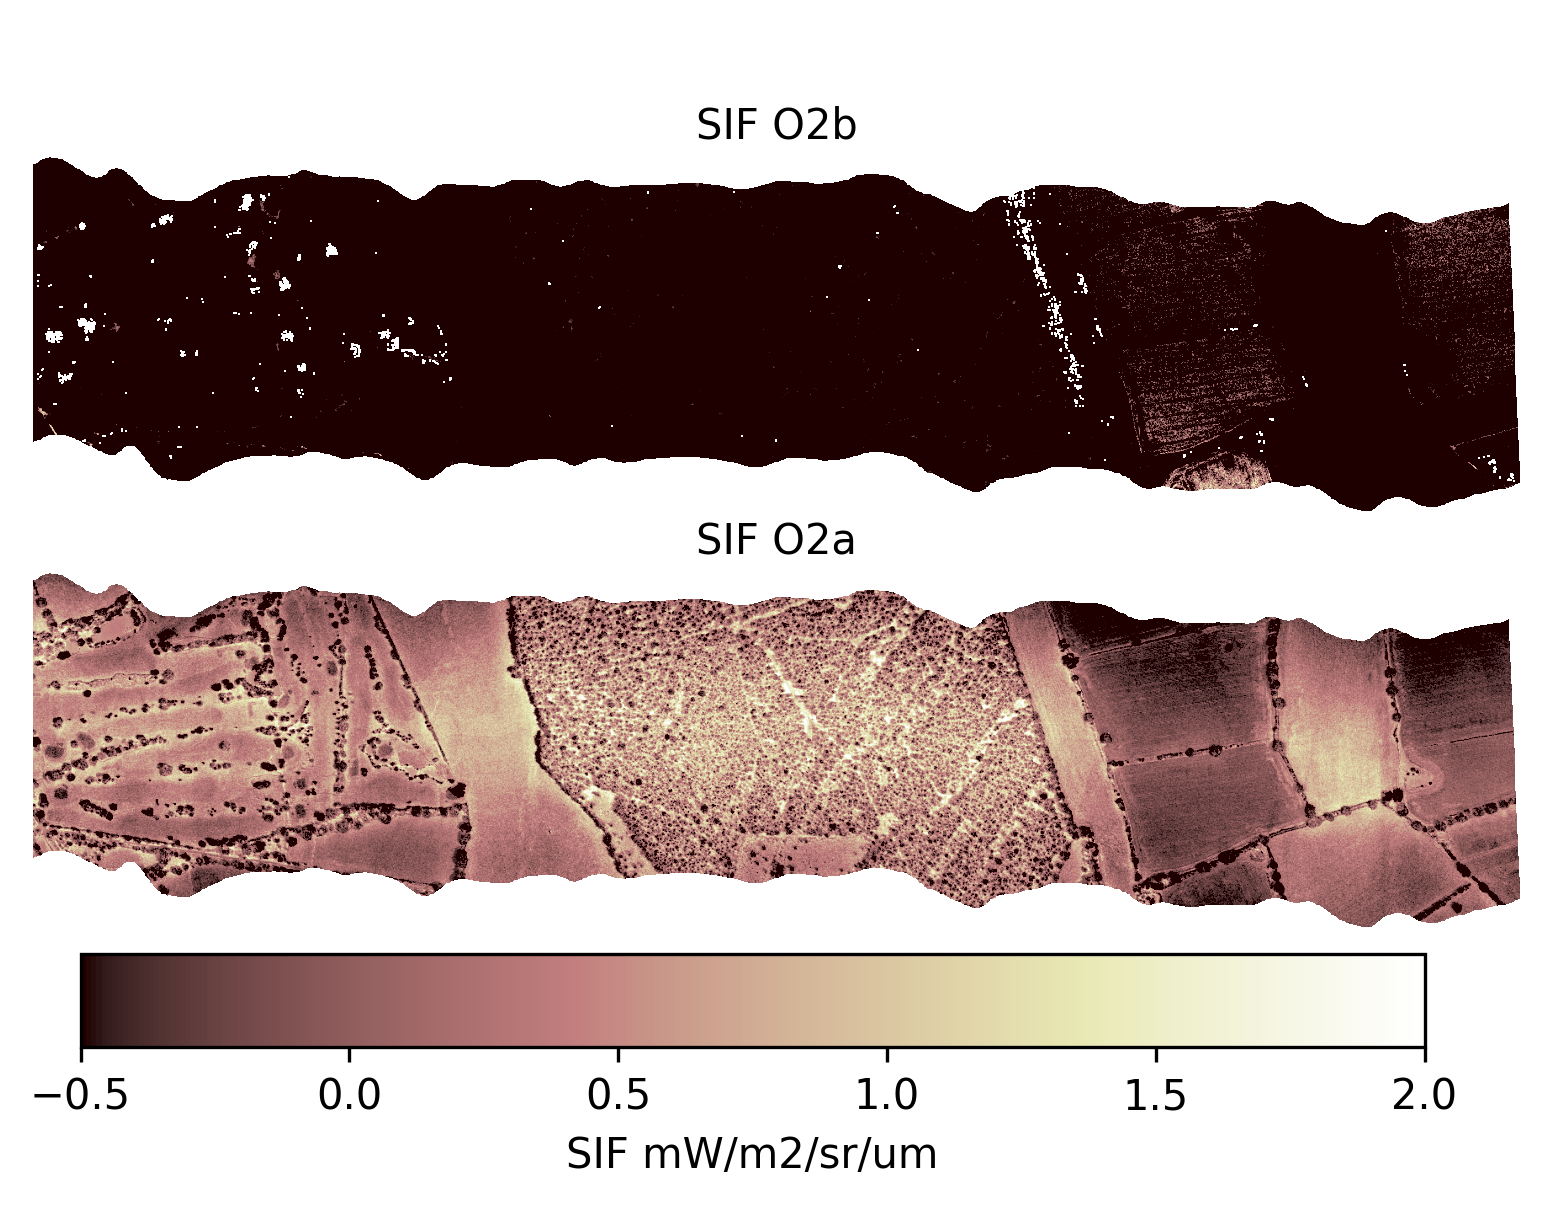
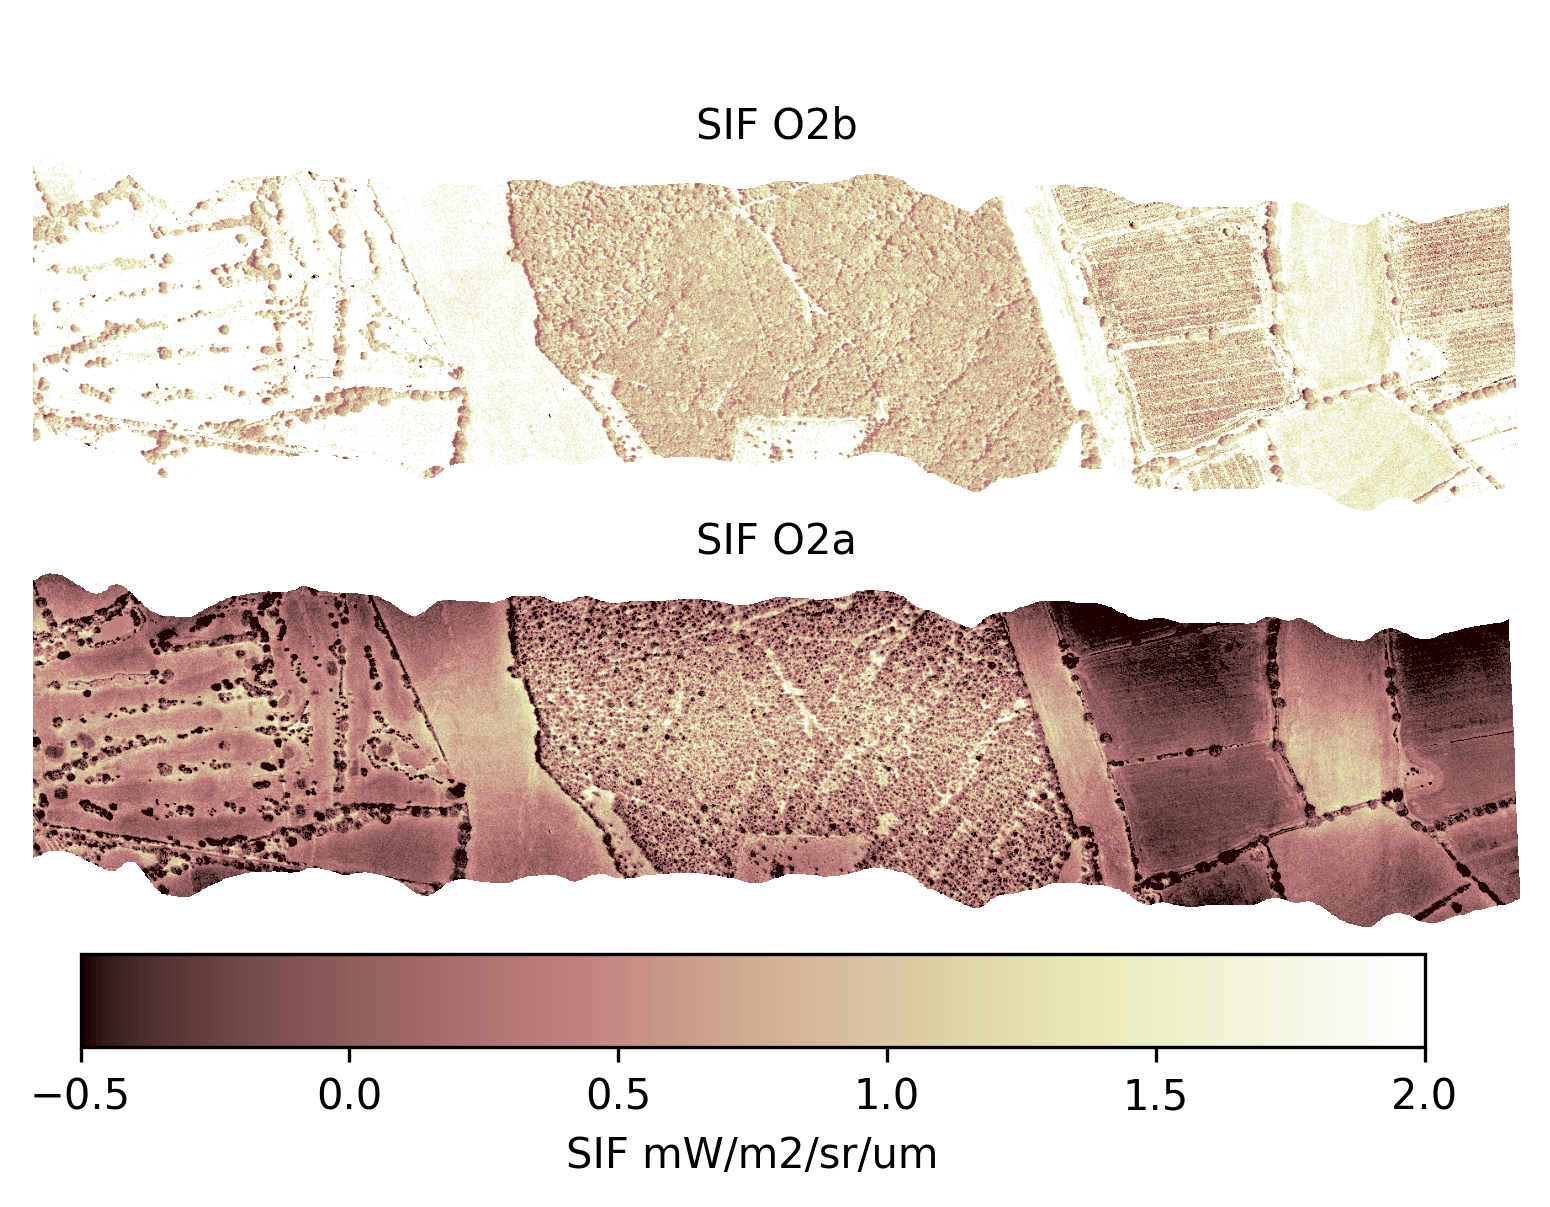
preliminary ridge regression algorithm implimented

Changed region(s): [[0.0, 0.1226, 0.991, 0.4292]]

diff --git a/sif_retrieval.py b/sif_retrieval.py
@@ -1,4 +1,5 @@
 import numpy as np
+import scipy.linalg as linalg
 from copy import copy
 from spectra_tools.spectra import Spectra
 
@@ -16,6 +17,71 @@ sif_opts_FLD_Cendrero19_O2b.outL_wband=(680, 686)
 sif_opts_FLD_Cendrero19_O2b.outR_wband=(697, 698) 
 
 
+def diff_matrix(size,order=1):
+    """returns a difference operator of the type 
+    described by Twomey in "introduction to the 
+    mathematics..." (see pages 124-127)
+    
+    size: (int) size of matrix to be returned
+    order: (int) the order of the difference matrix 
+    """
+    D=np.eye(size+order)
+    D=np.diff(D,n=order)
+    D[0:order,:]=0
+    D=D[0:size,:]
+    return D
+
+
+def sif_ridgeReg_compute_pseudo_inverse(wref_spect, order=1, gamma=1., sif_opts=sif_opts_FLD_Cendrero19_O2a):
+    """
+    
+    (KTK+gBTB)KT
+    """
+    
+    wl_min=sif_opts.in_wband[0]
+    wl_max=sif_opts.in_wband[1]
+
+    wref=copy(wref_spect)    
+    wref.trim(wl_min,wl_max)
+    
+    size=len(wref.data)
+    
+    #make the design matrix 
+    K=np.zeros((size,size*2))
+    for i in range(size):
+        K[i,i]=wref.data[i]
+        K[i,i+size]=1.0
+    KTK=np.matmul(K.T,K)
+    
+    #make the block matrix for the
+    #ridge regression constraints
+    D=diff_matrix(size,order=order)
+    B=linalg.block_diag(gamma*D,gamma*D)
+    BTB=np.matmul(B.T,B)
+    
+    return(np.matmul(np.linalg.inv(KTK+BTB),K.T))
+
+
+def sif_ridgeReg_use_precomp_inverse( target_spect, pseudo_inv,sif_opts=sif_opts_FLD_Cendrero19_O2a, out_wvl=None ):
+
+    wl_min=sif_opts.in_wband[0]
+    wl_max=sif_opts.in_wband[1]
+
+    targ=copy(target_spect)
+    targ.trim(wl_min,wl_max)
+    size=len(targ.data)
+
+    if out_wvl is None:
+        out_wvl=targ.wavl[int(size/2.)]
+
+    out=np.matmul(pseudo_inv,targ.data)
+    #copy SIF into targ
+    targ.data=out[size:]
+    
+    return(targ.closest_to_wavl(out_wvl)[1])
+
+    
+    
 def sif_linReg_compute_pseudo_inverse( wref_spect, sif_opts=sif_opts_FLD_Cendrero19_O2a ):
 
     wl_min=sif_opts.in_wband[0]
@@ -26,7 +92,7 @@ def sif_linReg_compute_pseudo_inverse( wref_spect, sif_opts=sif_opts_FLD_Cendrer
 
     X=np.ones((len(wref.data),2))
     X[:,0]=np.array(wref.data)
-
+    
     return(np.linalg.pinv(X))
 
 def sif_linReg_use_precomp_inverse( target_spect, pseudo_inv, sif_opts=sif_opts_FLD_Cendrero19_O2a ):
@@ -171,13 +237,16 @@ if __name__=="__main__":
 
     sif_opts=sif_opts_FLD_Cendrero19_O2a
    
-   
-    print(sif_sFLD(test,wref,sif_opts=sif_opts)*0.01)
-    print(sif_3FLD(test,wref,sif_opts=sif_opts)*0.01)
-    print(sif_linReg(test,wref,sif_opts=sif_opts)*0.01)
+    if True:  
+        print(sif_sFLD(test,wref,sif_opts=sif_opts)*0.01)
+        print(sif_3FLD(test,wref,sif_opts=sif_opts)*0.01)
+        print(sif_linReg(test,wref,sif_opts=sif_opts)*0.01)
 
-    pseudo=sif_linReg_compute_pseudo_inverse(wref, sif_opts)
-    print(sif_linReg_use_precomp_inverse(test, pseudo, sif_opts)*0.01)
+        pseudo=sif_linReg_compute_pseudo_inverse(wref, sif_opts)
+        print(sif_linReg_use_precomp_inverse(test, pseudo,sif_opts)*0.01)
+
+    pseudo=sif_ridgeReg_compute_pseudo_inverse(wref, sif_opts=sif_opts, order=3, gamma=10000000.)
+    print(sif_ridgeReg_use_precomp_inverse(test, pseudo,sif_opts=sif_opts,out_wvl=761.)*0.01)
 
     #plt.plot(wref.wavl,wref.data)
     #plt.plot(test.wavl,test.data)

diff --git a/proc_ibis.py b/proc_ibis.py
@@ -54,10 +54,16 @@ if __name__=="__main__":
     output_sif_o2b=np.ones([ibis_data.lines,ibis_data.samples])*-9999
     #output_ndvi=np.ones([ibis_data.lines,ibis_data.samples])*-9999
 
-    #precompute pseudo inverse for regression
-    pseudo_o2a=sif_linReg_compute_pseudo_inverse(wref, sif_opts_FLD_Cendrero19_O2a)
-    pseudo_o2b=sif_linReg_compute_pseudo_inverse(wref, sif_opts_FLD_Cendrero19_O2b)
+    #restrict the O2b waveband - the longer
+    #wavelengths change too much (this may
+    #also be overcome with the ridge regression)
+    sif_opts_FLD_Cendrero19_O2b.in_wband=(682, 690) 
 
+    #precompute pseudo inverse for regression
+    #pseudo_o2a=sif_linReg_compute_pseudo_inverse(wref, sif_opts_FLD_Cendrero19_O2a)
+    #pseudo_o2b=sif_linReg_compute_pseudo_inverse(wref, sif_opts_FLD_Cendrero19_O2b)
+    #pseudo_o2a=sif_ridgeReg_compute_pseudo_inverse(wref, order=2, gamma=10000000., sif_opts=sif_opts_FLD_Cendrero19_O2a)
+    pseudo_o2b=sif_ridgeReg_compute_pseudo_inverse(wref, order=2, gamma=10000000., sif_opts=sif_opts_FLD_Cendrero19_O2b)
 
     #loop over the IBIS data, exploiting the
     #fact that the BilReader class creates an
@@ -70,18 +76,26 @@ if __name__=="__main__":
                continue
             #output_sif_o2a[i,j]=sif_linReg(ibis_spect, wref, sif_opts_FLD_Cendrero19_O2a)
             #output_sif_o2b[i,j]=sif_linReg(ibis_spect, wref, sif_opts_FLD_Cendrero19_O2b)
-            output_sif_o2a[i,j]=sif_linReg_use_precomp_inverse(ibis_spect, pseudo_o2a, sif_opts_FLD_Cendrero19_O2a)
-            output_sif_o2b[i,j]=sif_linReg_use_precomp_inverse(ibis_spect, pseudo_o2b, sif_opts_FLD_Cendrero19_O2b)
+            #output_sif_o2a[i,j]=sif_linReg_use_precomp_inverse(ibis_spect, pseudo_o2a, sif_opts=sif_opts_FLD_Cendrero19_O2a)
+            #output_sif_o2b[i,j]=sif_linReg_use_precomp_inverse(ibis_spect, pseudo_o2b, sif_opts=sif_opts_FLD_Cendrero19_O2b)
+            #output_sif_o2a[i,j]=sif_ridgeReg_use_precomp_inverse(ibis_spect, pseudo_o2a, sif_opts=sif_opts_FLD_Cendrero19_O2a,out_wvl=761.0)
+            output_sif_o2b[i,j]=sif_ridgeReg_use_precomp_inverse(ibis_spect, pseudo_o2b, sif_opts=sif_opts_FLD_Cendrero19_O2b,out_wvl=686.7)
             #output_ndvi[i,j]=ibis_ndvi(ibis_spect, wref)
     
     #convert units
     output_sif_o2a*=ibis_data.units_to_mw_m2
     output_sif_o2b*=ibis_data.units_to_mw_m2
 
-    with open('./data_out/sif_o2a_linReg.pickle', 'wb') as f:
-        pickle.dump(output_sif_o2a, f, pickle.HIGHEST_PROTOCOL)
-    with open('./data_out/sif_o2b_linReg.pickle', 'wb') as f:
+
+    #with open('./data_out/sif_o2a_ridgeReg2.pickle', 'wb') as f:
+    #    pickle.dump(output_sif_o2a, f, pickle.HIGHEST_PROTOCOL)
+    with open('./data_out/sif_o2b_ridgeReg2.pickle', 'wb') as f:
         pickle.dump(output_sif_o2b, f, pickle.HIGHEST_PROTOCOL)
+
+    #with open('./data_out/sif_o2a_linReg.pickle', 'wb') as f:
+    #    pickle.dump(output_sif_o2a, f, pickle.HIGHEST_PROTOCOL)
+    #with open('./data_out/sif_o2b_linReg.pickle', 'wb') as f:
+    #    pickle.dump(output_sif_o2b, f, pickle.HIGHEST_PROTOCOL)
     #with open('./data_out/sif_o2a_3FLD.pickle', 'wb') as f:
     #    pickle.dump(output_sif_o2a, f, pickle.HIGHEST_PROTOCOL)
     #with open('./data_out/sif_o2b_3FLD.pickle', 'wb') as f:

diff --git a/img/mk_image.py b/img/mk_image.py
@@ -2,12 +2,12 @@ import numpy as np
 from matplotlib import pyplot as plt
 import pickle
 
-with open('../data_out/sif_o2a_linReg__foo.pickle', 'rb') as f:
+with open('../data_out/sif_o2a_ridgeReg2.pickle', 'rb') as f:
     image = pickle.load(f)
 sif_o2a_data = np.ma.masked_where(image < -10, image)
 sif_o2a_data = sif_o2a_data[2000:,:]
 
-with open('../data_out/sif_o2b_linReg__foo.pickle', 'rb') as f:
+with open('../data_out/sif_o2b_ridgeReg2.pickle', 'rb') as f:
     image = pickle.load(f)
 sif_o2b_data = np.ma.masked_where(image < -10, image)
 sif_o2b_data = sif_o2b_data[2000:,:]
@@ -30,6 +30,6 @@ cbar_ax = fig.add_axes([0.15, 0.1, 0.7, 0.065])
 fig.colorbar(im, orientation="horizontal", label="SIF mW/m2/sr/um",pad=0.01, cmap=cmap, cax=cbar_ax)
 
 #plt.show()
-plt.savefig("ibis_sif_linReg_o2a_o2b__foo.png",bbox_inches='tight', dpi=300)
+plt.savefig("ibis_sif_ridgeReg2_o2a_o2b.png",bbox_inches='tight', dpi=300)
 
 

diff --git a/check_O2b.py b/check_O2b.py
@@ -1,0 +1,26 @@
+import numpy as np
+from spectra_tools.spectra import Spectra
+from sif_retrieval import *
+
+import matplotlib.pyplot as plt
+
+if __name__=="__main__":
+
+    wref=Spectra(fname="./data_in/white_reference.csv",ftype="CSV",hdrLines=0)
+    test=Spectra(fname="./data_in/test_spectra.csv",ftype="CSV",hdrLines=0)
+
+    sif_opts_FLD_Cendrero19_O2b.in_wband=(686, 688) 
+    sif_opts=sif_opts_FLD_Cendrero19_O2b
+      
+    print(sif_sFLD(test,wref,sif_opts=sif_opts)*0.01)
+    print(sif_3FLD(test,wref,sif_opts=sif_opts)*0.01)
+    print(sif_linReg(test,wref,sif_opts=sif_opts)*0.01)
+
+    pseudo=sif_linReg_compute_pseudo_inverse(wref, sif_opts)
+    print(sif_linReg_use_precomp_inverse(test, pseudo, sif_opts)*0.01)
+
+
+    #plt.plot(wref.wavl,wref.data)
+    #plt.plot(test.wavl,test.data)
+    #plt.show()
+
